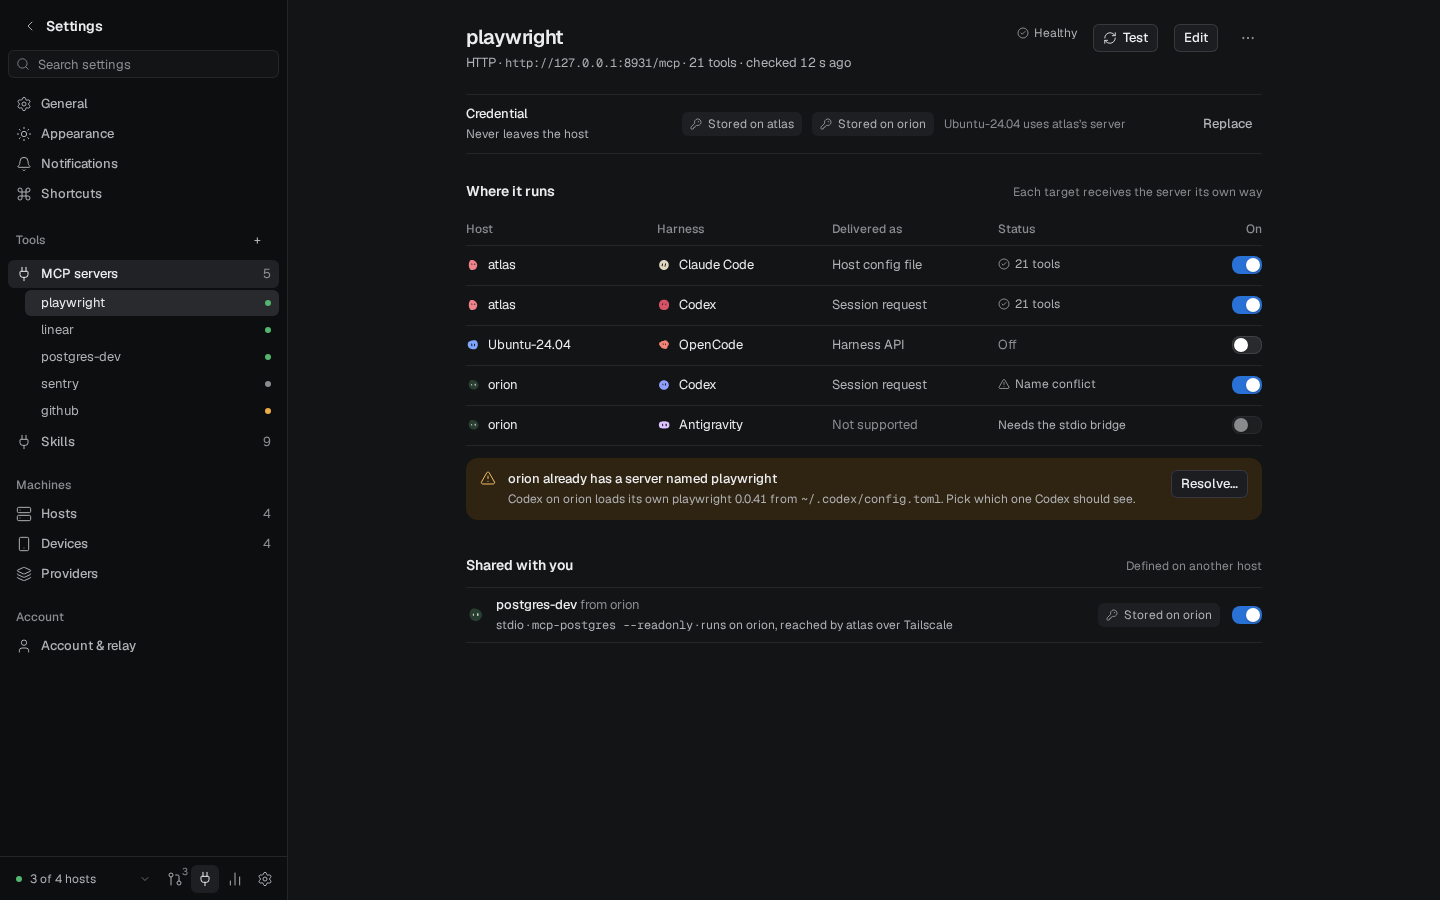
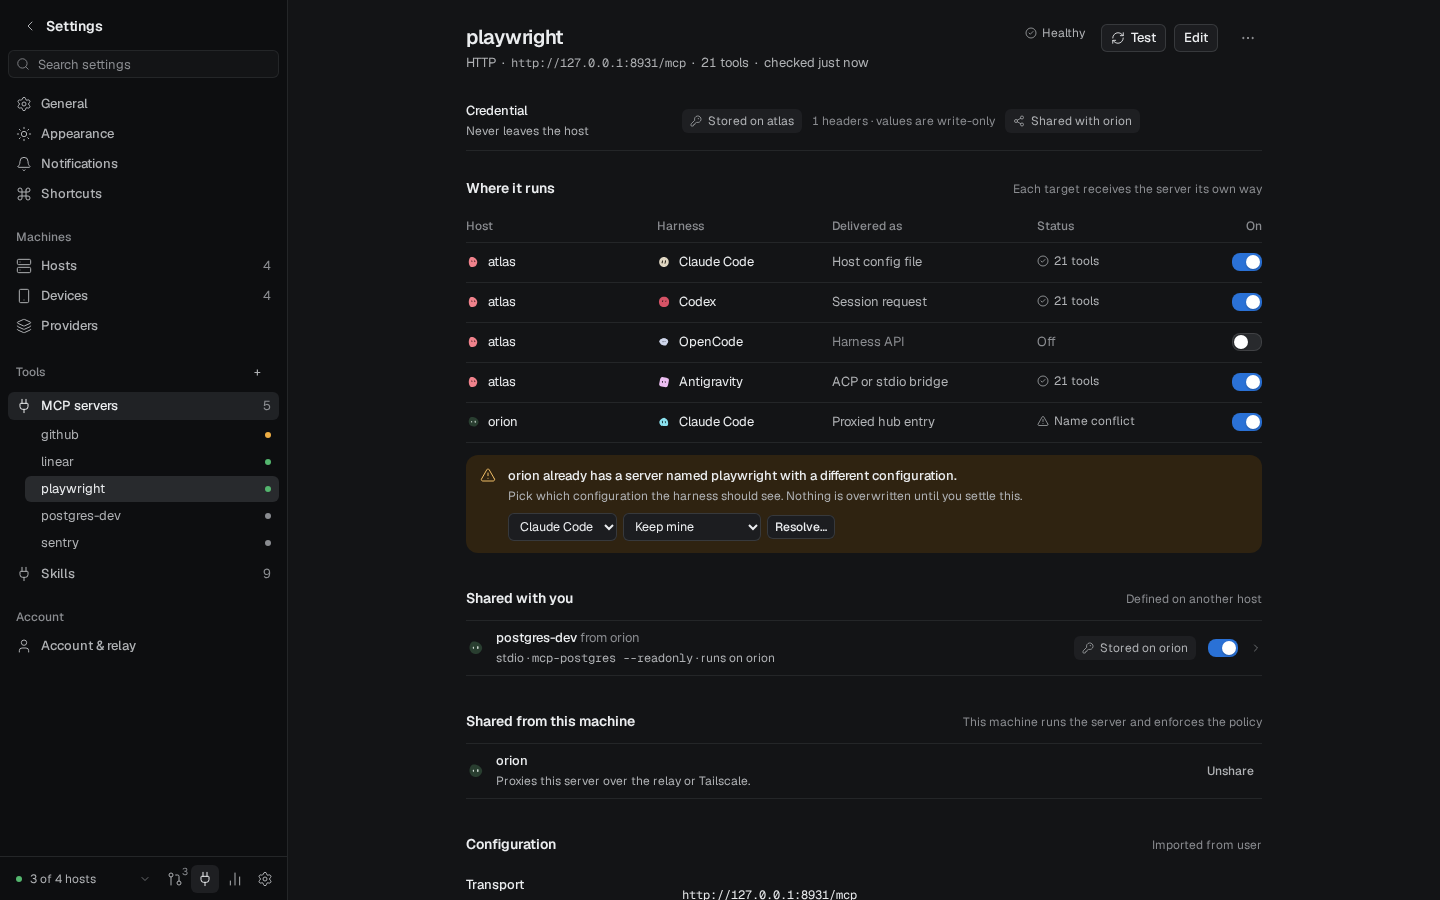
feat(ui): finish MCP and Skills surfaces
Polish the wired MCP servers and Skills screens: load counts in the
settings sidebar, wait for the local host before fetching, build the
per-machine MCP matrix from shared/enabled hosts, fold phone status into
secondary lines, and hide non-essential asides on narrow layouts.

Capture desktop and phone screenshots for both tools screens and cover
them in the mock-mode screenshot script.

diff --git a/apps/ui/src/features/mcp/McpPage.tsx b/apps/ui/src/features/mcp/McpPage.tsx
@@ -23,7 +23,7 @@ import {
   DropdownMenuSeparator,
   DropdownMenuTrigger,
 } from "@/components/ui/dropdown-menu";
-import type { HarnessKind, HostId, McpConflictResolution, McpServerView } from "@/gen";
+import type { HarnessKind, HostId, McpConflictResolution, McpServerView, ProtoError } from "@/gen";
 import { useIsPhone } from "@/hooks/use-media-query";
 import { useNow } from "@/hooks/use-now";
 import { HARNESS_LABELS, harnessSeed, machineSeed } from "@/lib/entities";
@@ -157,22 +157,31 @@ function matrixRows(server: McpServerView): MatrixRow[] {
     });
   }
   const conflict = conflictText(server);
-  server.enabled.by_machine.forEach((entry, index) => {
+  // Machines where this server is actually reachable: granted shares plus any
+  // explicit switch the daemon already stores. The local machine is the rows
+  // above, so it is not repeated here.
+  const machineIds = new Set<string>([
+    ...server.shared_to,
+    ...server.enabled.by_machine.map((entry) => entry.machine),
+  ]);
+  machineIds.delete(localHost);
+  [...machineIds].forEach((machine, index) => {
     const harness = PRIMARY_HARNESS;
+    const enabled = enabledFor(server, harness, machine);
     rows.push({
-      key: `${entry.machine}:${harness}`,
-      hostId: entry.machine,
+      key: `${machine}:${harness}`,
+      hostId: machine,
       hostName: "",
       harness,
       target: "machine",
       delivery: "Proxied hub entry",
-      enabled: entry.enabled,
-      note: !entry.enabled
+      enabled,
+      note: !enabled
         ? "Off"
         : conflict && index === 0
           ? "Name conflict"
           : "Can call this machine's server",
-      tone: !entry.enabled ? "off" : conflict && index === 0 ? "warn" : "ok",
+      tone: !enabled ? "off" : conflict && index === 0 ? "warn" : "ok",
       busy: false,
       onToggle: () => undefined,
     });
@@ -453,6 +462,23 @@ function SkeletonDetail() {
   );
 }
 
+function ErrorBanner({ error, onRetry }: { error: ProtoError | null; onRetry: () => void }) {
+  if (!error) return null;
+  return (
+    <div className="q-banner err" style={{ margin: "0 0 16px" }}>
+      <span className="ic">
+        <TriangleAlertIcon className="q-icon s14" aria-hidden />
+      </span>
+      <span className="grow">
+        <b>{error.message}</b> {error.hint ?? "The daemon did not answer."}
+      </span>
+      <Button variant="ghost" size="sm" onClick={onRetry}>
+        Retry
+      </Button>
+    </div>
+  );
+}
+
 function EmptyState({ onAdd, onImport }: { onAdd: () => void; onImport: () => void }) {
   return (
     <div className="q-center-empty">
@@ -486,6 +512,8 @@ function ServerList({
 }) {
   const servers = useMcp((state) => state.servers);
   const loading = useMcp((state) => state.loading);
+  const error = useMcp((state) => state.error);
+  const isPhone = useIsPhone();
   return (
     <main className="q-main" aria-label="MCP servers">
       <div className="q-page">
@@ -508,6 +536,8 @@ function ServerList({
             </Button>
           </div>
 
+          <ErrorBanner error={error} onRetry={() => void loadMcpServers({ force: true })} />
+
           {loading && servers.length === 0 ? (
             <div className="q-list" aria-busy="true">
               {[0, 1, 2].map((row) => (
@@ -527,27 +557,33 @@ function ServerList({
             <EmptyState onAdd={onAdd} onImport={onImport} />
           ) : (
             <div className="q-list">
-              {servers.map((server) => (
-                <button
-                  type="button"
-                  className="q-li text-left"
-                  key={server.id}
-                  onClick={() => onSelect(server)}
-                >
-                  <span style={{ width: 20, color: "var(--fg-2)" }}>
-                    <WrenchIcon className="q-icon" strokeWidth={1.5} aria-hidden />
-                  </span>
-                  <span className="grow">
-                    <span className="t block">{server.name}</span>
-                    <span className="s block">
-                      {transportKind(server.transport)} ·{" "}
-                      <span className="q-mono">{transportSummary(server.transport)}</span>
+              {servers.map((server) => {
+                const status = serverStatus(server);
+                return (
+                  <button
+                    type="button"
+                    className="q-li w-full text-left"
+                    key={server.id}
+                    onClick={() => onSelect(server)}
+                  >
+                    <span style={{ width: 20, color: "var(--fg-2)" }}>
+                      <WrenchIcon className="q-icon" strokeWidth={1.5} aria-hidden />
                     </span>
-                  </span>
-                  <Health server={server} />
-                  <ChevronRightIcon className="q-icon s14 q-faint" aria-hidden />
-                </button>
-              ))}
+                    <span className="grow min-w-0">
+                      <span className="t block truncate">{server.name}</span>
+                      <span className="s block truncate">
+                        {transportKind(server.transport)} ·{" "}
+                        <span className="q-mono">{transportSummary(server.transport)}</span>
+                        {isPhone ? ` · ${status.label}` : null}
+                      </span>
+                    </span>
+                    {isPhone ? null : <Health server={server} />}
+                    {isPhone ? null : (
+                      <ChevronRightIcon className="q-icon s14 q-faint" aria-hidden />
+                    )}
+                  </button>
+                );
+              })}
             </div>
           )}
         </div>
@@ -566,6 +602,7 @@ export function McpPage() {
   const checkedAt = useMcp((state) => state.checkedAt);
   const selected = useApp((state) => state.ui.layout.librarySelected);
   const hosts = useApp((state) => state.hosts);
+  const daemonHost = useApp((state) => state.localHostId);
   const now = useNow();
 
   const [phoneOpen, setPhoneOpen] = useState(false);
@@ -578,8 +615,13 @@ export function McpPage() {
 
   useEffect(() => {
     ensureMcpEvents();
-    void loadMcpServers();
   }, []);
+
+  // A deep link can mount this page before the daemon's hello reports its
+  // host; retry as soon as it arrives instead of leaving an empty list up.
+  useEffect(() => {
+    if (daemonHost) void loadMcpServers();
+  }, [daemonHost]);
 
   useEffect(() => {
     if (selected !== NEW_SERVER) return;
@@ -668,6 +710,9 @@ export function McpPage() {
       <>
         <main className="q-main" aria-label="MCP server detail">
           <div className="q-page">
+            <div className="q-wrap" style={{ maxWidth: 860 }}>
+              <ErrorBanner error={error} onRetry={() => void loadMcpServers({ force: true })} />
+            </div>
             <EmptyState onAdd={openAdd} onImport={openImport} />
           </div>
         </main>
@@ -708,21 +753,7 @@ export function McpPage() {
         <div className="q-page">
           <div className="q-wrap" style={{ maxWidth: 860 }}>
             {error ? (
-              <div className="q-banner err" style={{ margin: "0 0 16px" }}>
-                <span className="ic">
-                  <TriangleAlertIcon className="q-icon s14" aria-hidden />
-                </span>
-                <span className="grow">
-                  <b>{error.message}</b> {error.hint ?? "The daemon did not answer."}
-                </span>
-                <Button
-                  variant="ghost"
-                  size="sm"
-                  onClick={() => void loadMcpServers({ force: true })}
-                >
-                  Retry
-                </Button>
-              </div>
+              <ErrorBanner error={error} onRetry={() => void loadMcpServers({ force: true })} />
             ) : null}
 
             {isPhone ? (

diff --git a/apps/ui/src/features/skills/SkillsPage.tsx b/apps/ui/src/features/skills/SkillsPage.tsx
@@ -73,6 +73,7 @@ function SyncBanner() {
     : offline
       ? "Local skills keep working; sync resumes when the daemon is online."
       : "Run a cycle to publish local changes and pull the shared registry.";
+  const summary = sync?.message?.trim() || detail;
 
   return (
     <div
@@ -93,11 +94,15 @@ function SyncBanner() {
         </span>
       )}
       <span className="grow">
-        <b>{label}</b> · {sync?.message ?? detail}
+        <b>{label}</b> · {summary}
         {sync && (sync.conflicts > 0 || sync.hint) ? (
-          <span className="q-faint"> {sync.hint ?? `${sync.conflicts} conflicts to settle.`}</span>
+          <span className="q-faint">
+            {" "}
+            ·{" "}
+            {sync.hint ??
+              `${sync.conflicts} ${sync.conflicts === 1 ? "conflict" : "conflicts"} to settle.`}
+          </span>
         ) : null}
-        {!sync?.message && sync ? <span className="q-faint"> · {detail}</span> : null}
       </span>
       <Button variant="ghost" size="sm" onClick={() => void syncSkillsNow()} disabled={syncing}>
         {syncing ? "Syncing…" : "Sync now"}
@@ -107,6 +112,7 @@ function SyncBanner() {
 }
 
 function Conflicts({ conflicts }: { conflicts: SkillConflict[] }) {
+  const isPhone = useIsPhone();
   const [choices, setChoices] = useState<Record<string, string>>({});
   const [busy, setBusy] = useState<Record<string, boolean>>({});
   if (conflicts.length === 0) return null;
@@ -120,9 +126,9 @@ function Conflicts({ conflicts }: { conflicts: SkillConflict[] }) {
         {conflicts.map((conflict) => {
           const choice = choices[conflict.id] ?? "keep_local";
           return (
-            <div className="q-conflict" key={conflict.id}>
+            <div className="q-conflict" key={conflict.id} style={{ flexWrap: "wrap", rowGap: 8 }}>
               <TriangleAlertIcon className="q-icon q-warn" aria-hidden />
-              <div className="grow">
+              <div className="grow" style={{ minWidth: isPhone ? "calc(100% - 28px)" : undefined }}>
                 <div className="t">{conflict.name}</div>
                 <div className="q-muted" style={{ fontSize: 12, marginTop: 2 }}>
                   {conflict.reason} · local{" "}
@@ -255,7 +261,7 @@ function SkillRow({
         </div>
       </button>
       <HarnessMatrix skill={skill} isPhone={isPhone} />
-      <ChevronRightIcon className="q-icon s14 q-faint" aria-hidden />
+      {isPhone ? null : <ChevronRightIcon className="q-icon s14 q-faint" aria-hidden />}
     </div>
   );
 }
@@ -318,7 +324,9 @@ export function SkillsPage() {
                 <div className="q-muted mt-1">
                   {loading && !inventory
                     ? "Reading the skill registry…"
-                    : `${skills.length} installed · ${detected} harnesses detected · available wherever you choose`}
+                    : isPhone
+                      ? `${skills.length} installed · ${detected} harnesses`
+                      : `${skills.length} installed · ${detected} harnesses detected · available wherever you choose`}
                 </div>
               </div>
               <Button variant="secondary" onClick={() => setImportOpen(true)}>
@@ -350,9 +358,11 @@ export function SkillsPage() {
             <div className="q-sec" style={{ marginTop: conflicts.length > 0 ? 24 : 0 }}>
               <div className="q-sec-h">
                 <h2>Installed skills</h2>
-                <span className="aside">
-                  Each harness gets a managed copy; versions can differ until the next sync
-                </span>
+                {isPhone ? null : (
+                  <span className="aside">
+                    Each harness gets a managed copy; versions can differ until the next sync
+                  </span>
+                )}
               </div>
               {loading && !inventory ? (
                 SkeletonList()

diff --git a/apps/ui/src/components/shell/Sidebar.tsx b/apps/ui/src/components/shell/Sidebar.tsx
@@ -15,14 +15,14 @@ import {
   SquarePenIcon,
   WifiOffIcon,
 } from "lucide-react";
-import { useMemo, useState } from "react";
+import { useEffect, useMemo, useState } from "react";
 
 import { EntityAvatar } from "@/components/agent/EntityAvatar";
 import { KeyGlyphs, MOD, SHIFT } from "@/components/common/Kbd";
 import { ThreadRow } from "@/components/inbox/ThreadRow";
 import { serverStatus } from "@/features/mcp/labels";
-import { useMcp } from "@/features/mcp/store";
-import { useSkills } from "@/features/skills/store";
+import { loadMcpServers, useMcp } from "@/features/mcp/store";
+import { loadSkills, useSkills } from "@/features/skills/store";
 import type { ThreadSummary, ThreadTab } from "@/gen";
 import { useNow } from "@/hooks/use-now";
 import { harnessLabel, machineSeed } from "@/lib/entities";
@@ -760,6 +760,14 @@ function SettingsSidebar() {
   const mcpServers = useMcp((state) => state.servers);
   const skillInventory = useSkills((state) => state.inventory);
   const skills = skillInventory?.skills ?? NO_SKILLS;
+  const daemonHost = useApp((state) => state.localHostId);
+  // The Tools group shows counts for both halves, so read them once the daemon
+  // has reported its host rather than leaving a misleading zero.
+  useEffect(() => {
+    if (!daemonHost) return;
+    void loadMcpServers();
+    void loadSkills();
+  }, [daemonHost]);
   const library = route.kind === "placeholder" && route.surface === "library";
   // The route decides which half of Tools is open; selection only picks a server.
   const skillsActive =
